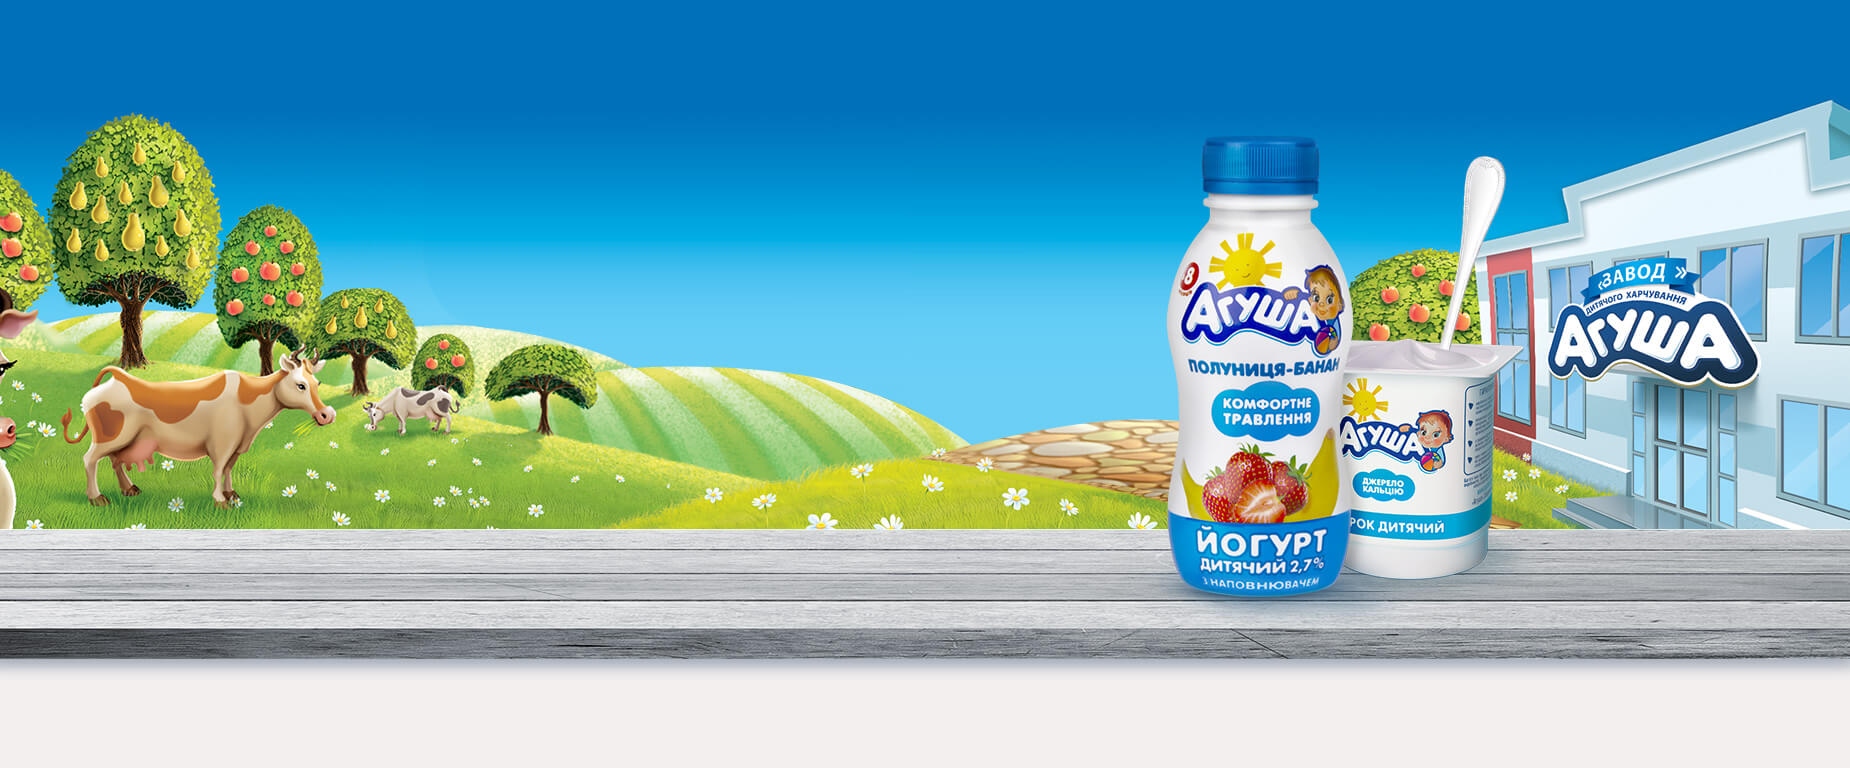
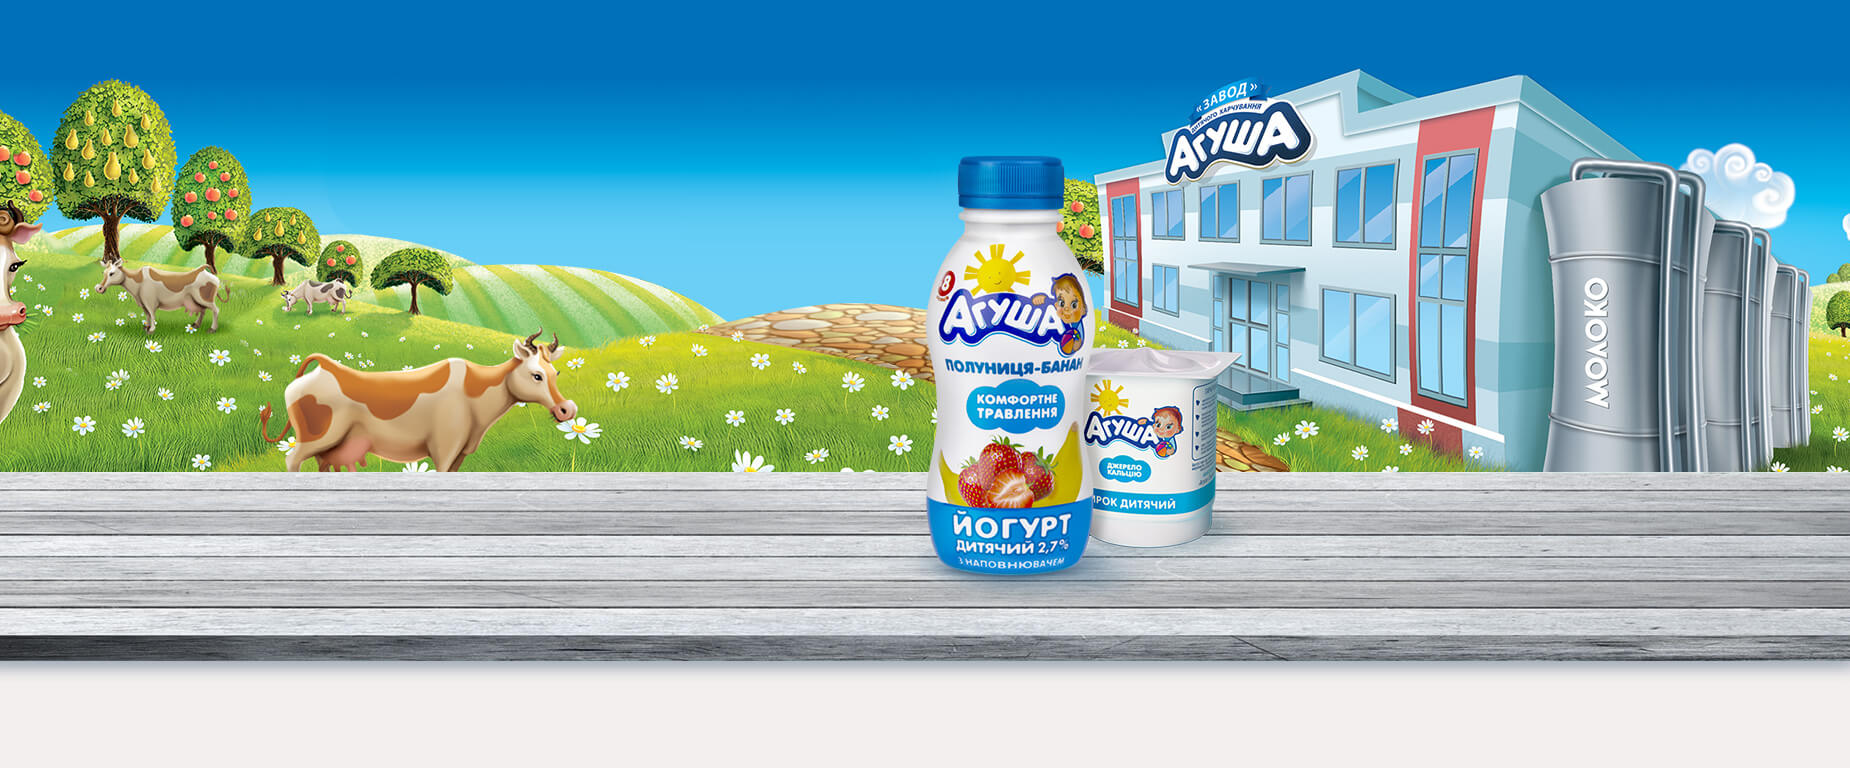
benner production

diff --git a/scss/user/main/index.scss b/scss/user/main/index.scss
@@ -436,7 +436,7 @@
 		}
 
 		&.banner_production {
-			background: url('/img/user/main/banner_production.jpg') no-repeat right top;
+			background: url('/img/user/main/banner_production.jpg') no-repeat center;
 		}
 
 		&.banner_image_baby_active {
